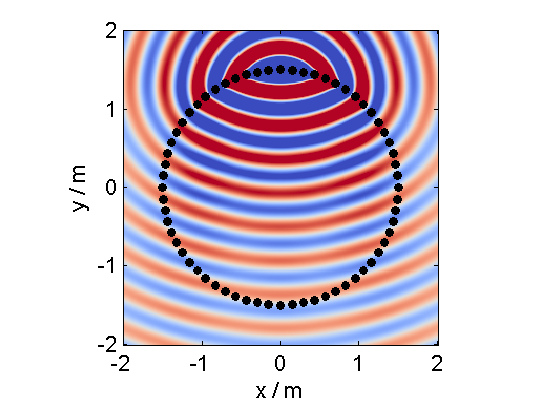
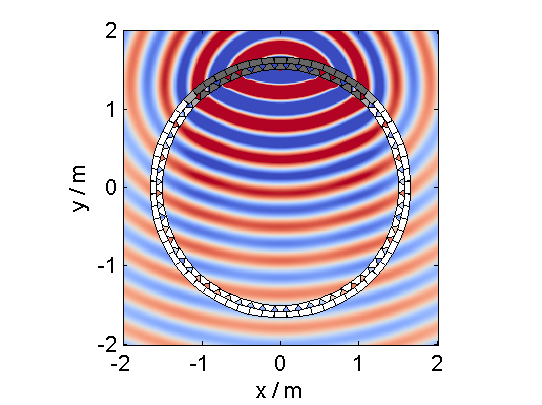
DOC: update plot with loudspeaker activity for WFS

Changed region(s): [[0.2657, 0.1185, 0.7675, 0.8], [0.2952, 0.1481, 0.3247, 0.237]]

diff --git a/doc/img/generate_plots.m b/doc/img/generate_plots.m
@@ -126,13 +126,14 @@ conf.dimension = '2.5D';
 conf.plot.useplot = true;
 conf.plot.normalisation = 'center';
 % [P,x,y,z,x0] = sound_field_mono_wfs(X,Y,Z,xs,src,f,conf);
-[P,x,y,z,x0] = sound_field_mono_wfs([-2 2],[-2 2],0,[0 2.5 0],'ps',800,conf);
+[P,~,~,~,x0] = sound_field_mono_wfs([-2 2],[-2 2],0,[0 2.5 0],'ps',800,conf);
 print_png('sound_field_wfs_25d.png');
 % plotting WFS with all secondary sources
 x0_all = secondary_source_positions(conf);
-[~,idx] = secondary_source_selection(x0,[0 2.5 0],'ps');
+[~,idx] = secondary_source_selection(x0_all,[0 2.5 0],'ps');
 x0_all(:,7) = zeros(1,size(x0_all,1));
 x0_all(idx,7) = x0(:,7);
+conf.plot.realloudspeakers = true;
 plot_sound_field(P,[-2 2],[-2 2],0,x0_all,conf);
 print_png('sound_field_wfs_25d_with_all_sources.png');
 % simulating 2.5D NFCHOA with circular array and a plane wave

diff --git a/doc/frequency-domain.rst b/doc/frequency-domain.rst
@@ -113,25 +113,26 @@ If you want to plot the whole loudspeaker array and not only the active
 secondary sources, you can do this by adding these commands. First we
 store all sources in an extra variable ``x0_all``, then we get the active
 ones ``x0`` and the corresponding indices of these active ones in ``x0_all``.
-Afterwards we set all sources in ``x0_all`` to zero, which is inactive and
-only the active ones to ``x0(:,7)``.
-
-FIXME: correct this section. Use real loudspeakers and show weights or simplify
-the example!
+Afterwards we set all sources in ``x0_all`` to zero, which are inactive and
+only the active ones to the loudspeaker weights ``x0(:,7)``.
 
 .. sourcecode:: matlab
 
     x0_all = secondary_source_positions(conf);
-    [x0,idx] = secondary_source_selection(x0_all,[0 2.5 0],'ps');
+    [~,idx] = secondary_source_selection(x0_all,[0 2.5 0],'ps');
     x0_all(:,7) = zeros(1,size(x0_all,1));
     x0_all(idx,7) = x0(:,7);
-    plot_sound_field(P,x,y,z,x0_all,conf);
+    plot_sound_field(P,[-2 2],[-2 2],0,x0_all,conf);
     %print_png('img/sound_field_wfs_25d_with_all_sources.png');
 
 .. figure:: img/sound_field_wfs_25d_with_all_sources.png
    :align: center
 
-   Image
+   Sound pressure of a mono-chromatic point source synthesized by 2.5D |WFS|. The
+   point source has a frequency of 800Hz and is placed at (0 2.5 0)m. All
+   loudspeakers are plotted. Their color correspond to the loudspeaker weights,
+   where white stands for zero.
+
 
 Near-Field Compensated Higher Order Ambisonics
 ----------------------------------------------
